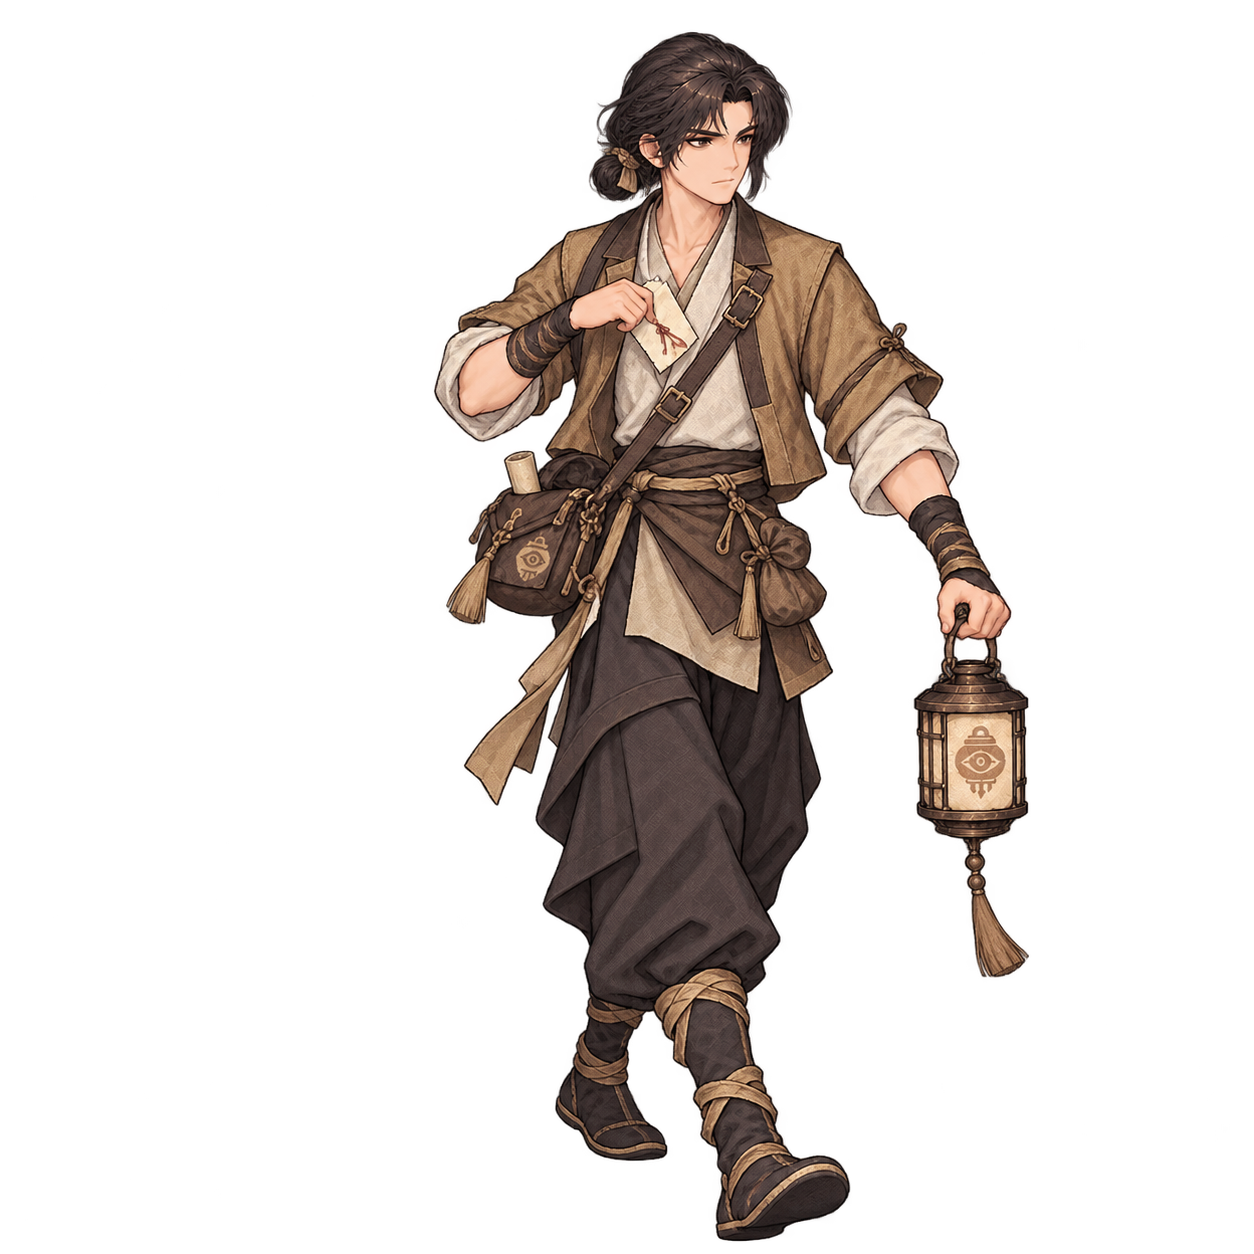
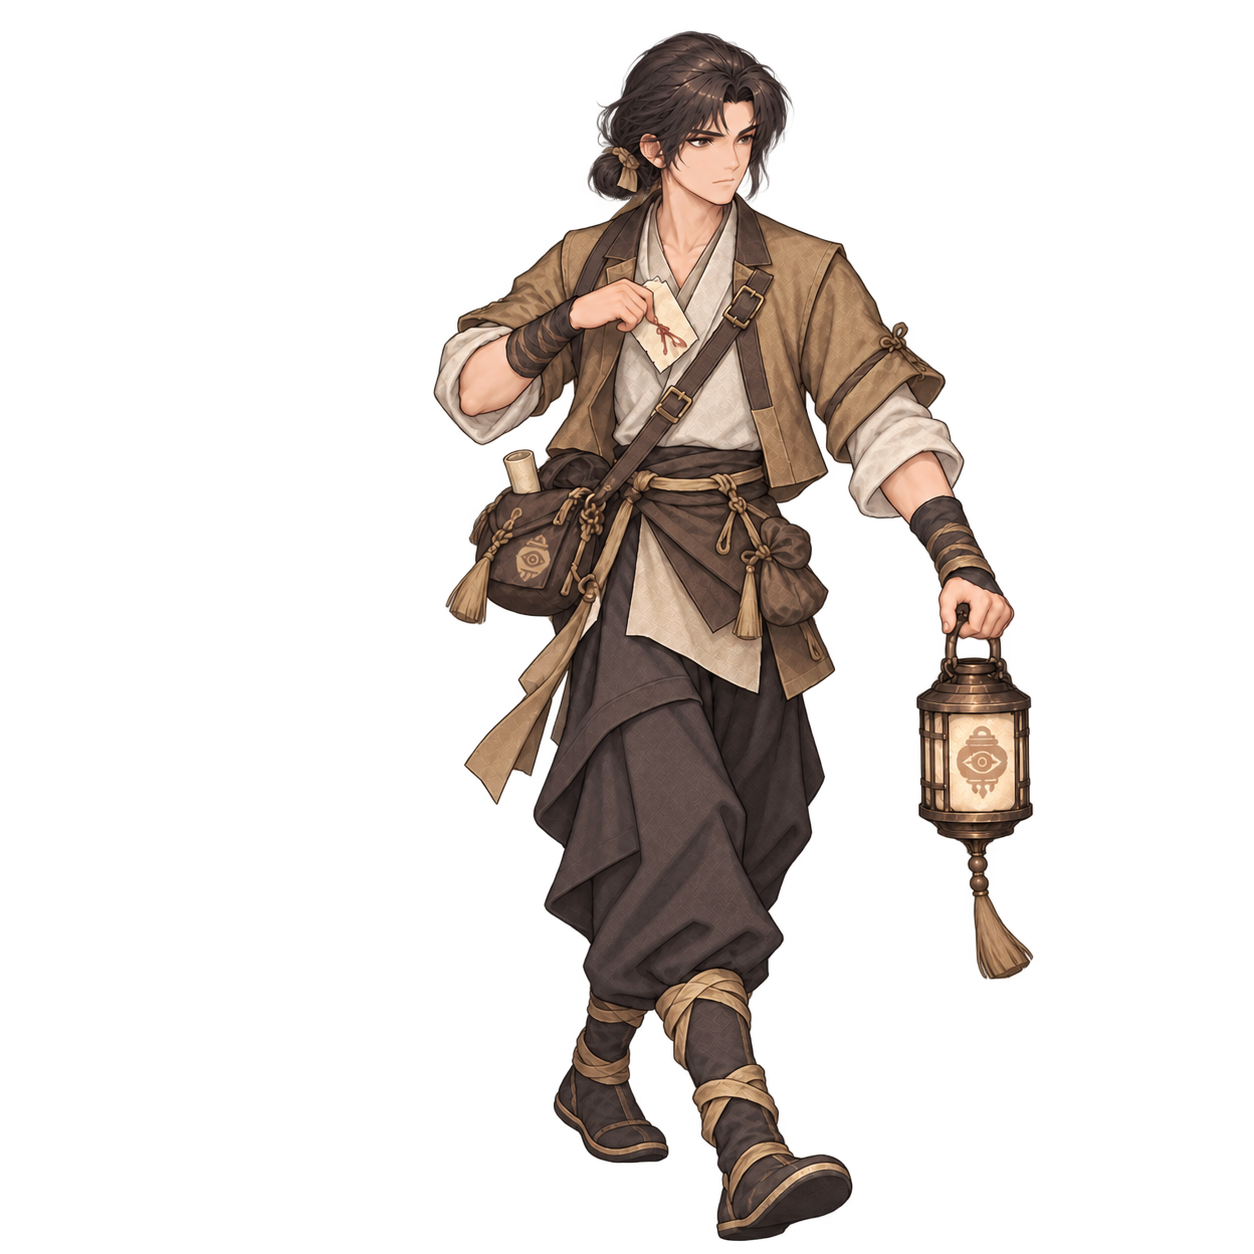
art: 의상실에 남녀 원화 색감·질감 정돈본 적용 — 남성 19종 · 여성 4종(소림·무당·남궁·제갈)
- 남성 19종: 대응 여성 원화의 색감·질감으로 정돈, 자세·장비 유지
- 여성 4종: 소림 기운 제거, 무당 기운 통일, 남궁 뒷다리 원근, 제갈 팔괘 진법
- manifest revision · 여성 4종 설명, wardrobe.html manifest 쿼리(20261027-style-sync)
- 나머지 여성 15종(천마신교 승인본 포함)은 그대로

diff --git a/docs/wardrobe.html b/docs/wardrobe.html
@@ -106,11 +106,11 @@
   document.querySelectorAll('[data-description]').forEach(button=>button.addEventListener('click',()=>{descriptionGender=button.dataset.description;choose(entries.find(entry=>entry.id===selectedId),false);}));
   async function load() {
     try {
-      const response=await fetch('assets/outfits-v5/manifest.json?v=20261027-murong-bow-assassin-black', {cache:'no-store'}); if(!response.ok)throw new Error('manifest');
+      const response=await fetch('assets/outfits-v5/manifest.json?v=20261027-style-sync', {cache:'no-store'}); if(!response.ok)throw new Error('manifest');
       const male=await response.json();
       const valid=e=>e&&typeof e.id==='string'&&typeof e.name==='string'&&typeof e.file==='string'&&/^[a-z0-9_-]+\.png$/i.test(e.file);
       entries=(male.entries||[]).filter(valid); if(!entries.length)throw new Error('empty');
-      let female={entries:[]}; try {const result=await fetch('assets/outfits-female-v1/manifest.json?v=20261027-murong-bow-assassin-black', {cache:'no-store'});if(result.ok)female=await result.json();}catch {}
+      let female={entries:[]}; try {const result=await fetch('assets/outfits-female-v1/manifest.json?v=20261027-style-sync', {cache:'no-store'});if(result.ok)female=await result.json();}catch {}
       const pending=(female.entries||[]).filter(valid);
       femaleEntries=new Map(pending.map(entry=>[entry.id,{...entry,ready:entry.status!=='pending'}]));
       $('completion').textContent='백의 + '+(entries.length-1)+'세력 · 남녀 의상';
